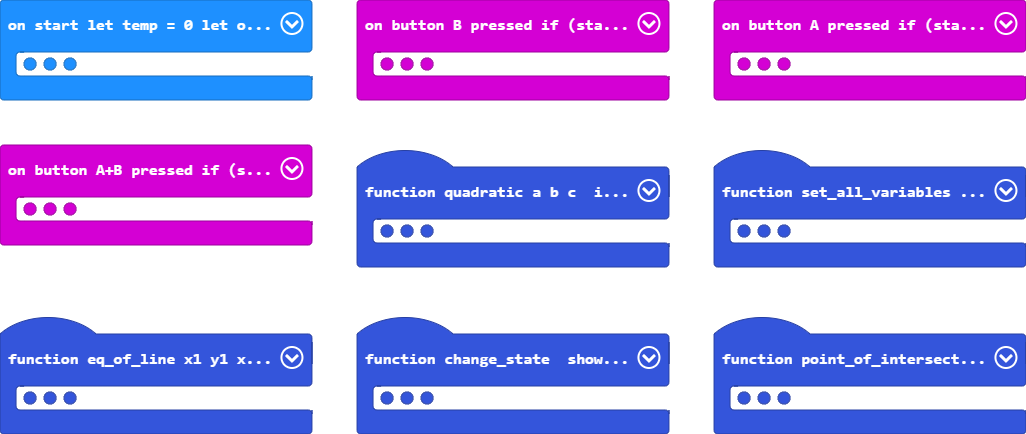
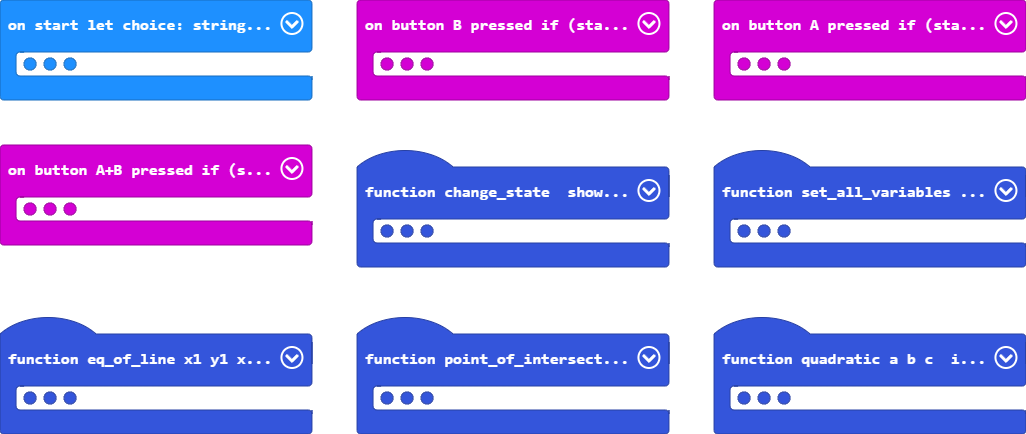
Update pxt.json, main.blocks, main.ts

diff --git a/main.ts b/main.ts
@@ -6,7 +6,7 @@ function quadratic (a: number, b: number, c: number) {
     } else {
         x = (b * -1 + Math.sqrt(b ** 2 - 4 * (a * c))) / (2 * a)
         x2 = (b * -1 - Math.sqrt(b ** 2 - 4 * (a * c))) / (2 * a)
-        basic.showString("x1=" + x + "x2" + x2)
+        basic.showString("x1=" + x + "x2=" + x2)
     }
 }
 function set_all_variables () {
@@ -108,7 +108,8 @@ let b = 0
 let y = 0
 let x2 = 0
 let x = 0
-let temp = 0
-let operation = 0
 let choice: string[] = []
+let operation = 0
+let temp = 0
+basic.showString("Choose operation",70)
 set_all_variables()
